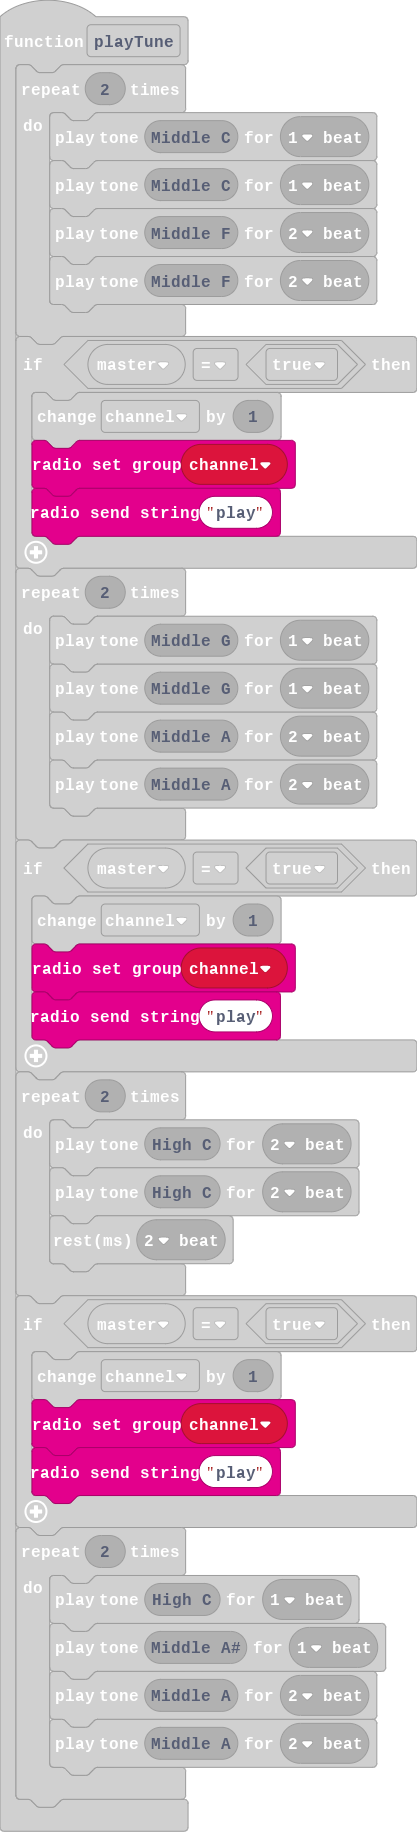
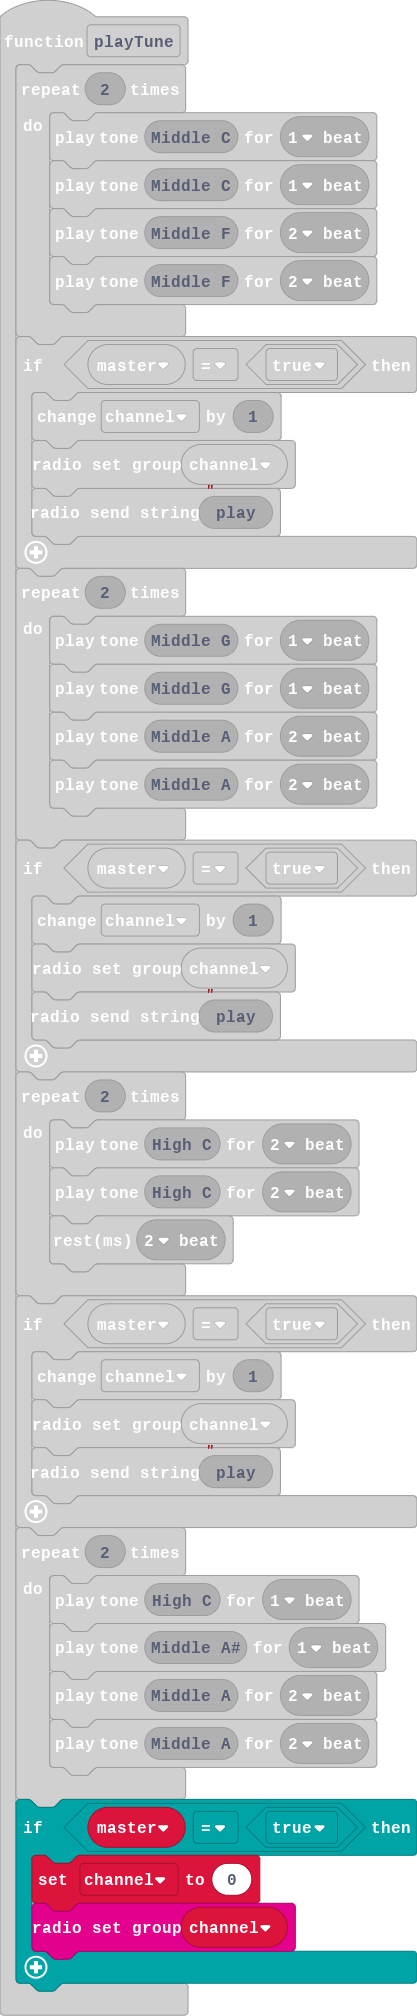
Update main.blocks, main.ts

diff --git a/main.ts b/main.ts
@@ -37,6 +37,10 @@ function playTune () {
         music.playTone(440, music.beat(BeatFraction.Double))
         music.playTone(440, music.beat(BeatFraction.Double))
     }
+    if (master == true) {
+        channel = 0
+        radio.setGroup(channel)
+    }
 }
 radio.onReceivedString(function (receivedString) {
     playTune()
